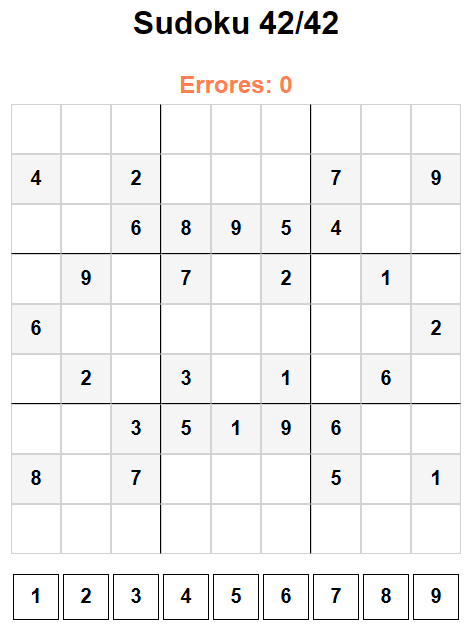
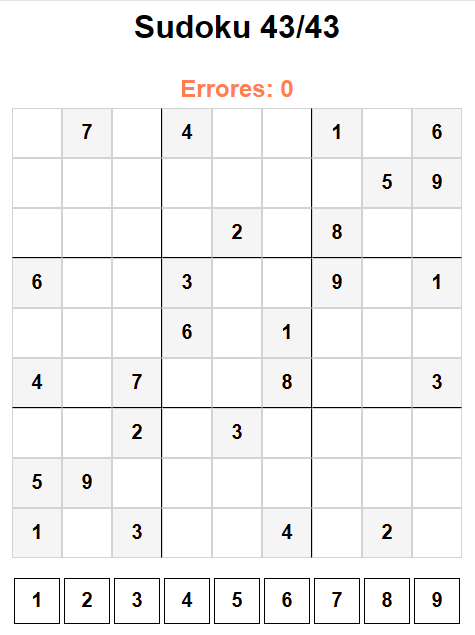
Feat: sudoku-javascript. 20251005
- 20251005

#20251005

diff --git a/board.js b/board.js
@@ -83,6 +83,8 @@ const board = [
     '---7-53-8', '9--38---6', '1--------', '--69--74-', ],
   ['---------', '4-2---7-9', '--68954--', '-9-7-2-1-', '6-------2',
     '-2-3-1-6-', '--35196--', '8-7---5-1', '---------', ],
+  ['-7-4--1-6', '-------59', '----2-8--', '6--3--9-1', '---6-1---',
+    '4-7--8--3', '--2-3----', '59-------', '1-3--4-2-', ],
 ];
 
 export default function getBoard(WHICH) {

diff --git a/sudoku.js b/sudoku.js
@@ -10,7 +10,7 @@ let posExample = '';
 
 let errors = 0;
 
-const WHICH = 41;
+const WHICH = 42;
 let currentBoardIndex = WHICH; // El índice del tablero que se va a resolver
 
 let board = [];
